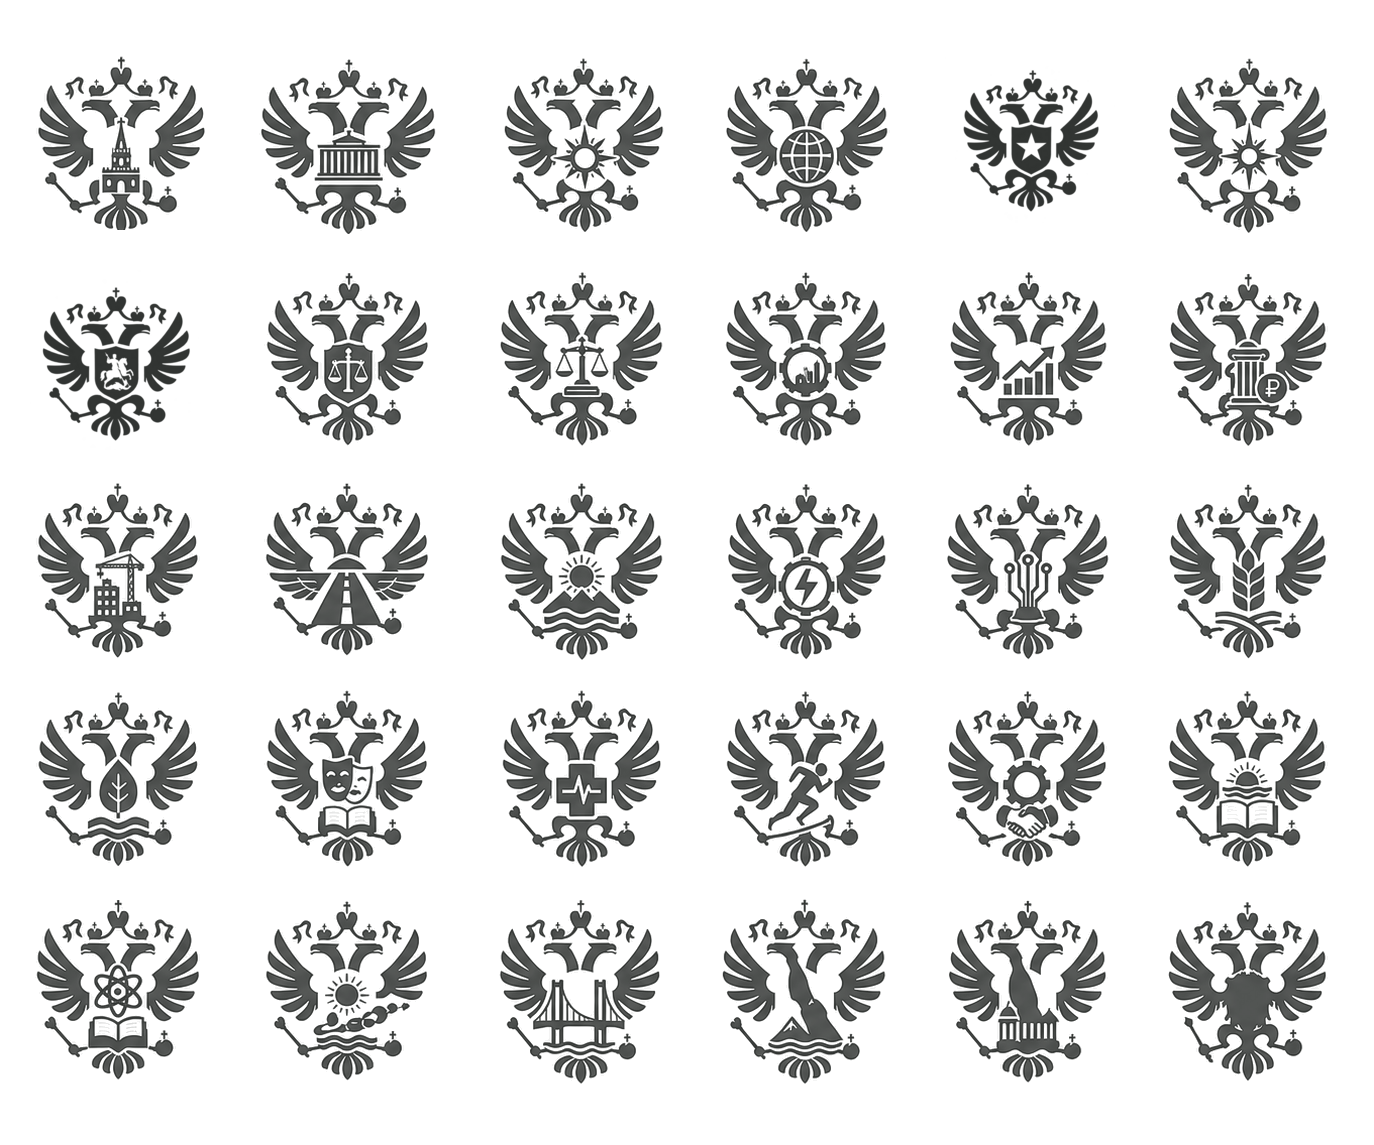
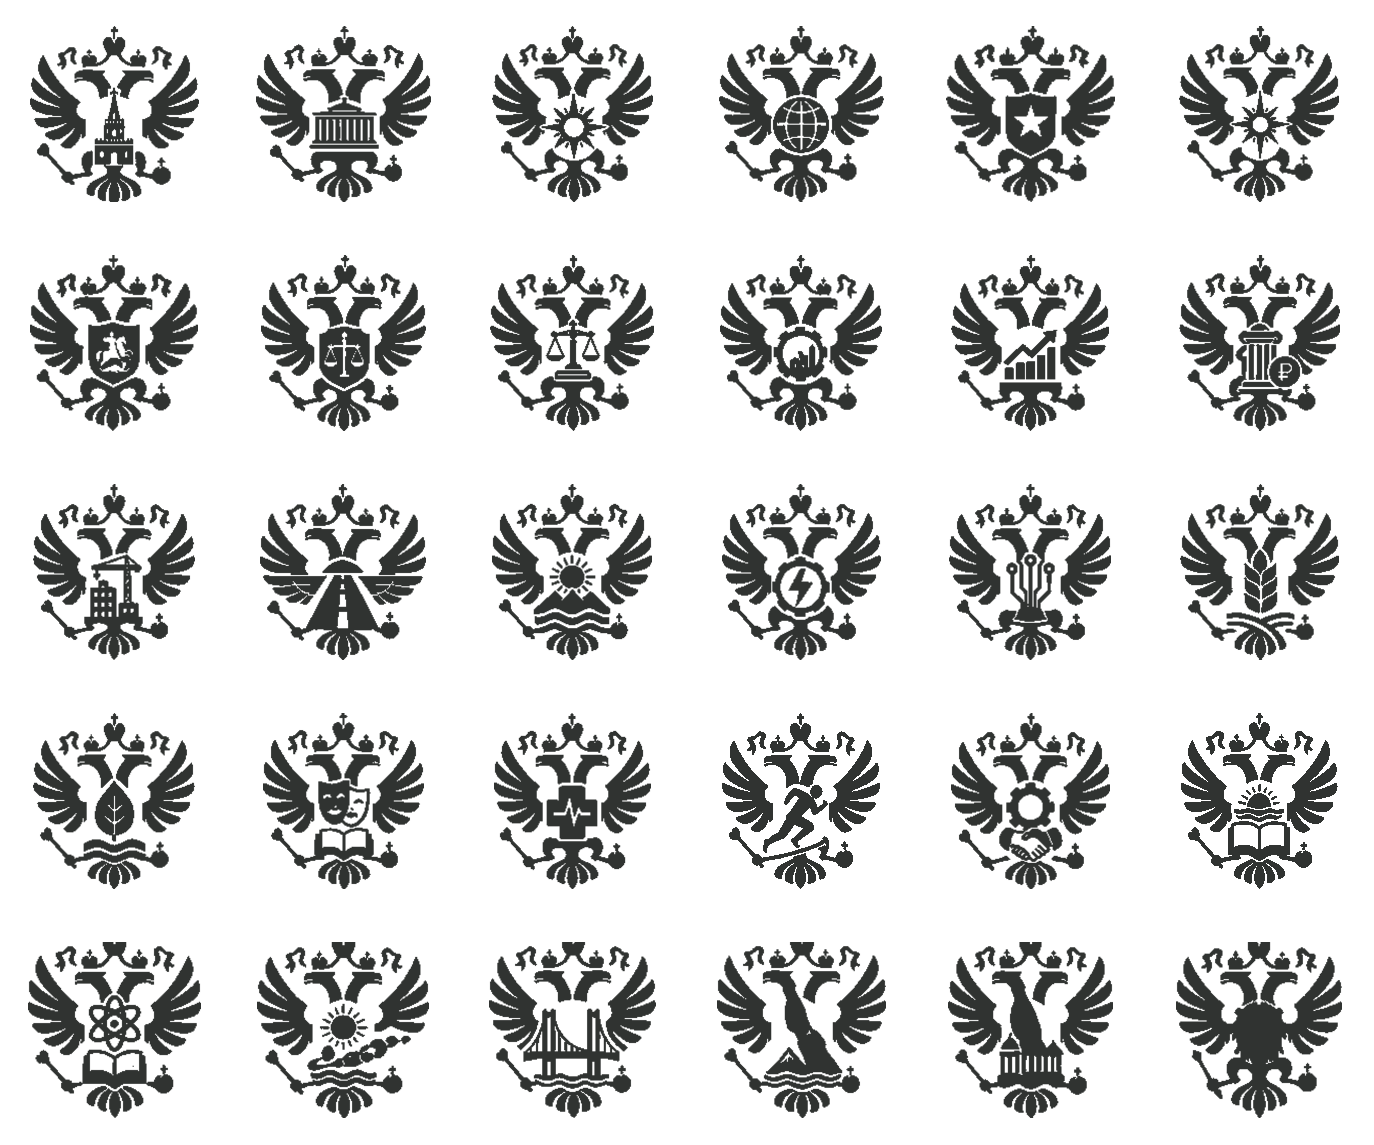
Выровнять графитовые эмблемы в сетке

diff --git a/templates/news.html b/templates/news.html
@@ -420,10 +420,10 @@
         }
         .source-emblem-main{
             position:absolute;left:0;top:0;width:48px;height:48px;
-            background-size:330px 275px;
+            background-size:288px 240px;
             background-position:
-                calc(var(--emblem-x) * -55px - 3px)
-                calc(var(--emblem-y) * -55px - 3px)
+                calc(var(--emblem-x) * -48px)
+                calc(var(--emblem-y) * -48px)
         }
         .news-card h3{
             grid-column:2;margin:0;max-width:none;color:#181816;
@@ -493,10 +493,10 @@
         .source-row.active .check{color:#fff;background:var(--coral)}
         .source-emblem-compact{
             position:relative;width:24px;height:24px;
-            background-size:180px 150px;
+            background-size:144px 120px;
             background-position:
-                calc(var(--emblem-x) * -30px - 3px)
-                calc(var(--emblem-y) * -30px - 3px)
+                calc(var(--emblem-x) * -24px)
+                calc(var(--emblem-y) * -24px)
         }
         .source-row.active .source-emblem-compact:after{
             content:"✓";position:absolute;right:-3px;bottom:-2px;width:11px;height:11px;

diff --git a/test/test_web_templates.py b/test/test_web_templates.py
@@ -36,8 +36,8 @@ class WebTemplateTests(unittest.TestCase):
             'class="source-mark"',
             'class="source-emblem source-emblem-main',
             'class="source-emblem source-emblem-compact',
-            'background-size:330px 275px',
-            'background-size:180px 150px',
+            'background-size:288px 240px',
+            'background-size:144px 120px',
             'class="news-summary"',
             'Найдено {{page_total_display}} материалов',
             '<svg viewBox="0 0 20 24" aria-hidden="true">',

diff --git a/config.py b/config.py
@@ -1,4 +1,4 @@
-PROJECT_VERSION = "2026.08.17.16.50"
+PROJECT_VERSION = "2026.08.17.16.51"
 
 KEYWORDS = [
     "Курил", "Сахалин", "Владивосток", "Хабаровск", "Камчатка", "Дальний Восток",
